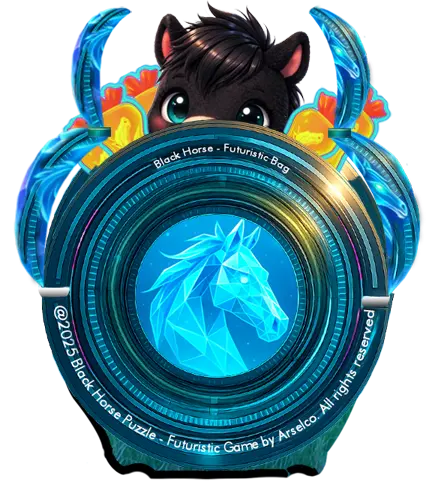
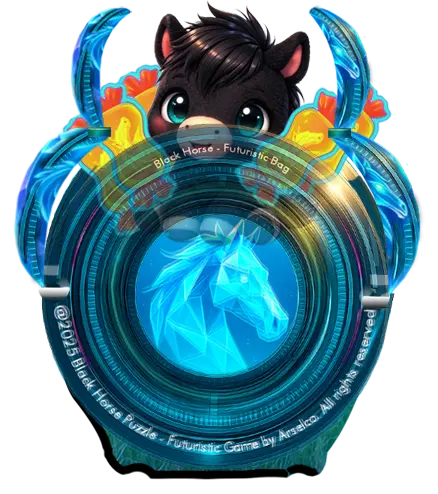
Move cinematic, update index, bhimbi open, GetOut & Bhimbi Free

Changed region(s): [[0.089, 0.2429, 0.8904, 0.9413], [0.3562, 0.6984, 0.3858, 0.7287]]

diff --git a/CinematicScene.js b/CinematicScene.js
@@ -1,0 +1,98 @@
+class CinematicScene extends Phaser.Scene {
+  constructor() {
+    super('CinematicScene');
+  }
+
+  preload() {
+    this.load.video(
+      'bh-cinematic',
+      'Puzzle-Assets/Video/BlackHorseCinematic.mp4',
+      'loadeddata',
+      false,
+      true
+    );
+  }
+
+  create() {
+    if (localStorage.getItem('email')) {
+      const loginBox = document.getElementById('loginBox');
+      const logoutBtn = document.getElementById('logoutBtn');
+      if (loginBox) loginBox.style.display = 'none';
+      if (logoutBtn) logoutBtn.style.display = 'inline-block';
+    }
+
+    const cam = this.cameras.main;
+    cam.fadeIn(800, 0, 0, 0);
+
+    const splashMusic = this.sound && this.sound.get('cinematic');
+    if (splashMusic && splashMusic.isPlaying) {
+      splashMusic.stop();
+      splashMusic.destroy();
+    }
+
+    const bgMusic = this.sound && this.sound.get('music');
+    if (bgMusic && bgMusic.isPlaying) {
+      bgMusic.stop();
+      bgMusic.destroy();
+    }
+
+    let escText;
+    const showEscText = () => {
+      if (escText) escText.destroy();
+      escText = this.add.text(20, 20, 'ESC(EXIT)', {
+        font: '18px Arial',
+        color: '#fff',
+        backgroundColor: '#222',
+        padding: { x: 10, y: 5 }
+      }).setOrigin(0, 0);
+      this.time.delayedCall(5000, () => escText.setVisible(false));
+    };
+
+    const video = this.add.video(cam.centerX, cam.centerY, 'bh-cinematic');
+    video.setOrigin(0.5);
+
+    video.once('play', () => {
+      const scale = Math.max(
+        cam.width / video.width,
+        cam.height / video.height
+      );
+      video.setScale(scale);
+      video.setInteractive();
+      showEscText();
+    });
+
+    video.setMute(false);
+    video.play(false);
+
+    video.once('play', () => {
+      const duration = video.getDuration ? video.getDuration() : 20;
+      const showAt = Math.max(0, (duration - 5) * 1000);
+      void showAt;
+    });
+
+    video.on('complete', () => {
+      if (localStorage.getItem('email')) {
+        this.scene.start('Level01Scene');
+      } else {
+        this.scene.start('SplashScene');
+      }
+    });
+
+    this.input.keyboard.on('keydown-ESC', () => {
+      if (video && video.destroy) video.destroy();
+      this.scene.start('SplashScene');
+    });
+
+    window.onCinematicLoginSuccess = () => {
+      hideLoginBox();
+      this.finishCinematic(video);
+    };
+  }
+
+  finishCinematic(video) {
+    localStorage.setItem('bh_cinematic_seen', 'true');
+    this.cameras.main.fadeOut(800, 0, 0, 0);
+    if (video && video.destroy) video.destroy();
+    this.scene.start('Level01Scene');
+  }
+}

diff --git a/index.html b/index.html
@@ -1075,6 +1075,7 @@ const entranceGameBtn = document.getElementById('entranceGameBtn');
      <!-- Load main.js -->
     <!-- <script src="./configURL.js"></script> pindah keatas-->
     <script src="./Helper/hashHelper.js"></script>  
+    <script src="./CinematicScene.js"></script>
     <!-- <script src="https://L1S1V2-backend-paypalblackhorsepuzzle.onrender.com/Scenes/SplashScene.js"></script>
     <script src="https://L1S1V2-backend-paypalblackhorsepuzzle.onrender.com/Scenes/CinematicScene.js"></script>
     <script src="https://L1S1V2-backend-paypalblackhorsepuzzle.onrender.com/Scenes/Level01Scene.js"></script>
@@ -1083,7 +1084,6 @@ const entranceGameBtn = document.getElementById('entranceGameBtn');
     // Inject scene scripts secara dinamis setelah configURL.js dimuat
     const scenes = [
       'SplashScene.js',
-      'CinematicScene.js',
       'Level01Scene.js',
       'Level02Scene.js'
     ];